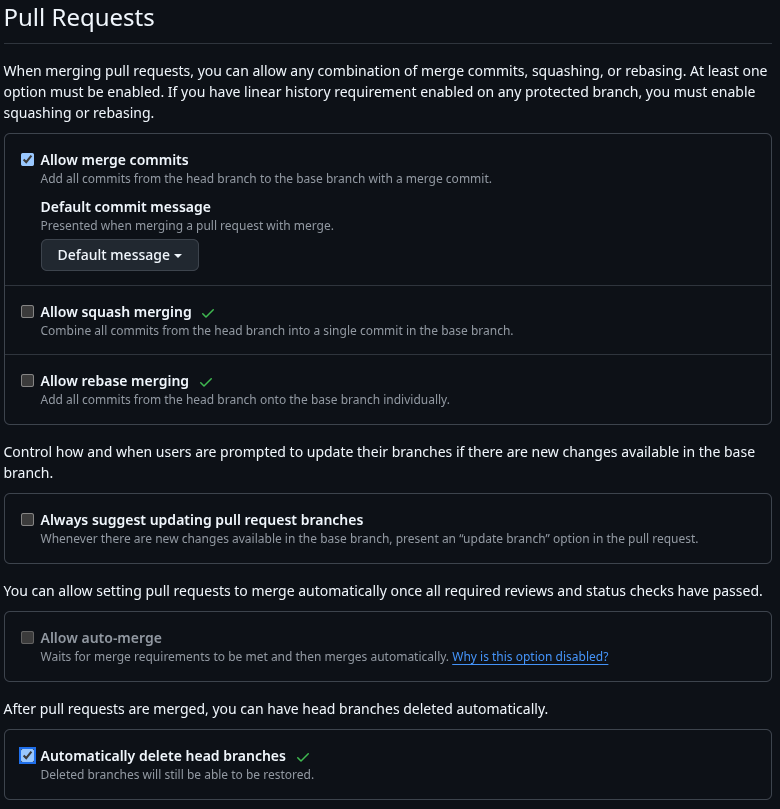
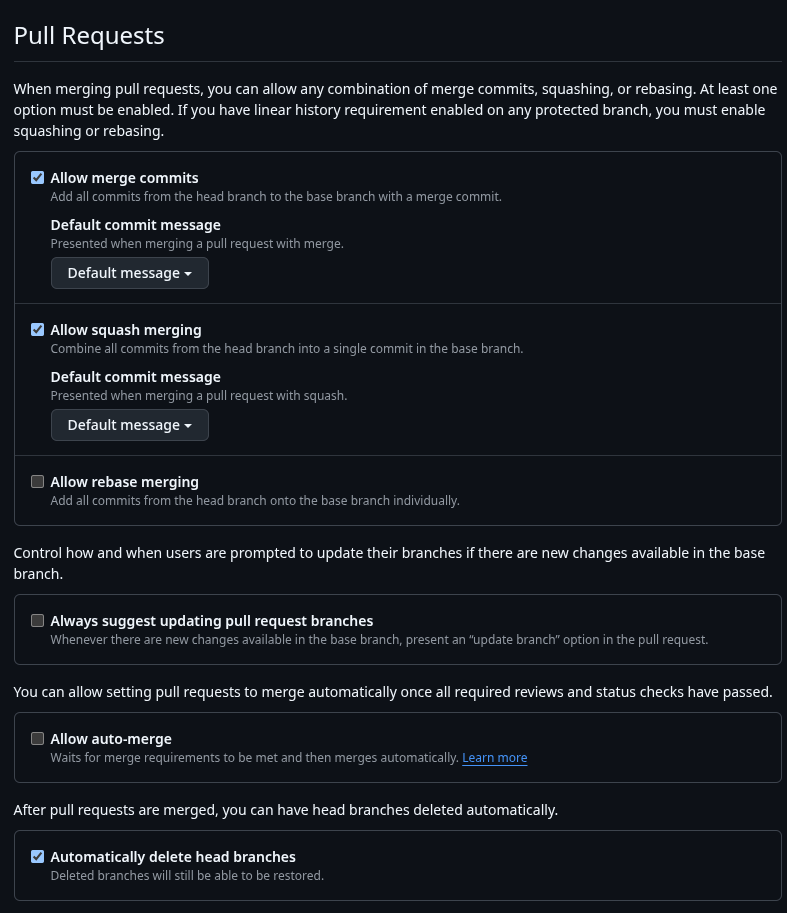
Removing development branch from workflows.

diff --git a/workflows/github-workflow.md b/workflows/github-workflow.md
@@ -1,17 +1,16 @@
-# Git Workflow: Geschützte Branches, `release-please` & Saubere Historie
+# Git Workflow: Geschützter `main` Branch, temporäre Feature & Fix Branches, `release-please` & Saubere Historie
 
-Dieser Guide beschreibt einen sicheren und effektiven Git-Workflow für Projekte, die `main` und `development` als zentrale Branches nutzen, beide durch **Branch Protection Rules** (nur Pull Requests erlaubt) geschützt sind und `release-please` für die Versionsverwaltung und Changelog-Generierung verwendet wird.
+Dieser Guide beschreibt einen sicheren und effektiven Git-Workflow für Projekte, bei dem nicht direkt im `main` gearbeitet wird, sondern Änderungen ins Repository über temporäre Feature & Fix Branches eingeführt werden. Um dies sicher zu stellen, wird der `main` durch **Branch Protection Rules** (u.a. nur Pull Requests erlaubt) geschützt. Zusätzlich wird `release-please` für die Versionsverwaltung und Changelog-Generierung verwendet. Dieser Workflow entspricht im Wesentlichen dem [GitHub-Flow](https://docs.github.com/de/get-started/using-github/github-flow) und dem [Git feature branch workflow](https://www.atlassian.com/git/tutorials/comparing-workflows/feature-branch-workflow). Für weiterführende Infos lese die verlinkten Guides.
 
 Dieser Guide eignet sich für Projekte, die mit [`setup_leptos_project.sh`](../scripts/setup_leptos_project.sh) erstellt in mit [`github-project-repo.md`](../setup/github-project-repo.md) in `GitHub` eingerichtet wurden.
 
 ## Kernprinzipien
 
 - **`main` ist der Hauptzweig:** Er dient mit `release-please` gleichzeitig als Release Branch.
-- **`development` ist der Start Branch für Entwicklung:** Alle temporären Branches für Features und Fixes werden von `development` abgeleitet.
 - **Temporäre Branches:** Alle Änderungen am Repository (neue Dateien, Dateien anpassen oder entfernen) durch Entwickler erfolgt über temporäre Branches, die zu löschen sind, wenn sie nicht mehr gebraucht werden.
-- **Keine Squash-Merges von `development` nach `main`:** Dies ist entscheidend, um doppelte Einträge in Changelogs bei der Synchronisation zu vermeiden. Wir verwenden stattdessen **normale Merge-Commits**.
-- **Feature-Branches aufräumen:** Die "Sauberkeit" der Commit-Historie wird auf den **Feature-Branches** selbst sichergestellt, bevor sie gemergt werden.
-- **Pull Request-zentrierter Ansatz:** Alle Änderungen an den geschützten Branches (`main` und `development`) müssen über Pull Requests erfolgen.
+- **Feature-Branches aufräumen:** Die "Sauberkeit" der Commit-Historie wird auf den **Feature-Branches** selbst sichergestellt, bevor sie gemergt werden. Sie können nach `main` mit einem [`merge` Commit](https://docs.github.com/de/pull-requests/collaborating-with-pull-requests/incorporating-changes-from-a-pull-request/about-pull-request-merges#merge-your-commits) übertragen werden. Alternativ empfiehlt `release-please` die Verwendung von [`squashed` Commits(https://docs.github.com/de/pull-requests/collaborating-with-pull-requests/incorporating-changes-from-a-pull-request/about-pull-request-merges#squash-and-merge-your-commits)]. So lange vor dem Zusammenführen der Branches entweder durch "sauberes" Arbeiten oder durch nachträgliches Aufräumen mit `rebase` die "Sauberkeit" der Commit Historie sichergestellt wird, sind beide Ansätze in Ordnung.
+- **Temporäre Branches:** Feature und Fix Branches sind temporär und werden nach dem Durchführen des Pull Requests wieder gelöscht. Sie werden nie wieder verwendet.
+- **Pull Request-zentrierter Ansatz:** Alle Änderungen an `main` müssen über Pull Requests erfolgen. `main` wird explizit über ein entsprechendes **Branch Protection Ruleset** geschützt.
 - **Notwendige `GitHub` Workflows:** Alle notwendigen Workflows werden über [`setup_leptos_project.sh`](../scripts/setup_leptos_project.sh) bereit gestellt.
 
 ---
@@ -23,9 +22,9 @@ Dieser Guide eignet sich für Projekte, die mit [`setup_leptos_project.sh`](../s
 Starte die Entwicklung neuer Features oder Fixes auf einem dedizierten Feature-Branch.
 
 ```bash
-# Sicherstellen, dass der lokale development Branch aktuell ist
-git checkout development
-git pull origin development
+# Sicherstellen, dass der lokale main Branch aktuell ist
+git checkout main
+git pull origin main
 
 # Neuen Feature-Branch erstellen
 git checkout -b feature/mein-super-feature
@@ -37,84 +36,52 @@ Bevor du deinen Feature-Branch zur Code-Review einreichst, bereinige seine Histo
 
 ```bash
 # Interaktiven Rebase starten
-git rebase -i development
+git rebase -i main
 ```
 
 - **Im geöffneten Editor:** Nutze Befehle wie `reword` (Commit-Nachricht bearbeiten), `squash` (mit vorherigem Commit zusammenfassen) oder `fixup` (mit vorherigem Commit zusammenfassen, Nachricht verwerfen), um deine Commits zu organisieren und zu verbessern. Speichere und schließe die Datei, damit Git den Rebase durchführen kann.
 
-- **Pushe deinen bereinigten Branch:** Da du die Historie umgeschrieben hast, ist ein Force Push notwendig. Verwende immer `--force-with-lease`, um unbeabsichtigtes Überschreiben von Änderungen anderer zu vermeiden.
+- **Pushe deinen bereinigten Branch:** Da du die Historie umgeschrieben hast, ist ein Force Push nach Origin notwendig. Verwende immer `--force-with-lease`, um unbeabsichtigtes Überschreiben von Änderungen anderer zu vermeiden.
 
   ```bash
   git push origin feature/mein-super-feature --force-with-lease
   ```
 
-### 3\. Feature-Branch in `development` mergen (via Pull Request)
+Hier findest du [Informationen zu Git-Rebase](https://docs.github.com/de/get-started/using-git/about-git-rebase) auf GitHub.
 
-Erstelle einen Pull Request (PR) von deinem Feature-Branch nach `development`.
+### 4\. Feature-Branch in `main` mergen (Release-Vorbereitung via Pull Request)
 
-- **PR erstellen:** Öffne einen PR von `feature/mein-super-feature` nach `development`.
+Erstelle einen Pull Request (PR) von deinem Feature-Branch nach `main`.
+
+- **PR erstellen:** Öffne einen PR von `feature/mein-super-feature` nach `main`.
 - **Review & Checks:** Lasse den Code reviewen und stelle sicher, dass alle CI/CD-Checks erfolgreich sind.
-- **Mergen:** Der Merge dieses PRs nach `development` sollte als **normaler Merge** erfolgen (nicht als Squash-Merge oder Rebase-Merge). Dies bewahrt die Commit-Historie deines Feature-Branches in `development`.
+- **Mergen:** Der Merge dieses PRs nach `main` sollte als **normaler Merge** (Commits bleiben einzeln erhalten) oder als **Squash-Merge** (Commits werden zu einem Commit zusammen gefasst) erfolgen (nicht Rebase-Merge).
 
-### 4\. `development` in `main` mergen (Release-Vorbereitung via Pull Request)
+> 💡 **Hinweis:** Vergiss nicht, den temporären Feature Branch nach dem merge lokal und auf Origin zu löschen.
 
-Sobald `development` alle für das nächste Release benötigten Features gesammelt hat, wird es in `main` integriert.
+### 4\. `release-please` wird aktiv und aktualisiert `main`
 
-- **PR erstellen:** Erstelle einen Pull Request von `development` nach `main`.
-- **Review & Checks:** Führe Code-Reviews und CI/CD-Checks durch.
-- **Mergen:** Auch hier ist ein **normaler Merge** erforderlich. Dies ermöglicht es `release-please`, die einzelnen Feature-Commits auf `main` zu erkennen und das Changelog korrekt zu generieren.
+Nach dem Merge nach `main` wird `release-please` (typischerweise über GitHub Actions) ausgelöst.
 
-### 5\. `release-please` wird aktiv und aktualisiert `main`
-
-Nach dem Merge von `development` nach `main` wird `release-please` (typischerweise über GitHub Actions) ausgelöst.
-
-- `release-please` analysiert die neuen Commits auf `main` (die ursprünglichen Feature-Commits von `development`).
+- `release-please` analysiert die neuen Commits auf `main` (die ursprünglichen Feature-Commits aus dem temporären Branch).
 - Es erstellt automatisch einen **neuen Pull Request** (z.B. "Release v1.2.3") auf `main`. Dieser PR enthält:
   - Den Version Bump in der Versionsdatei (z.B. `Cargo.toml`).
   - Das generierte Changelog.
   - Ggf. weitere Release-Artefakte.
 
-### 6\. `release-please`-PR nach `main` mergen
+### 5\. `release-please`-PR nach `main` mergen
 
 Überprüfe den von `release-please` erstellten PR. In den meisten Fällen kann dieser PR direkt gemergt werden.
 
 - **Mergen:** Führe einen **normalen Merge** für diesen `release-please`-PR nach `main` durch.
 - `main` enthält nun die aktualisierte Version und das Changelog. Ein entsprechendes Release-Tag wird gesetzt.
 
-### 7\. `main` in `development` zurücksynchronisieren (via Pull Request)
+### 6\. Publishing über Docker Image
 
-> 💡 **Hinweis:** Der `GitHub` Workflow [`sync_development_with_main.yml`](../github/workflows/sync_development_with_main.yml) führt die folgendes Schritte automatisch aus, sobald `release-please` nach dem merge des `Release PR` den `main` Branch mit einem Version tag markiert. Wenn beim merge Konflikte auftauchen, bricht der Workflow mit einer entsprechenden Fehlermeldung ab. Andernfalls endet er mit der Erstellung des Pull Request auf `development`.
+Wenn deine App über ein Docker Image veröffentlicht werden soll, dann ist jetzt der Bau und die Veröffentlichung des Docker Images anzustoßen (typischerweise über GitHub Actions). Der Workflow [`publish.yml`](../github/workflows/publish.yml) reagiert aus das gesetzte Release-Tag und führt die folgenden Schritte aus:
 
-Dies ist der letzte, aber entscheidende Schritt, um den `development`-Branch mit den durch `release-please` auf `main` eingeführten Versionsänderungen und dem Changelog zu aktualisieren.
-
-- **Temporären Sync-Branch erstellen:**
-
-  ```bash
-  git checkout development
-  git pull origin development # development auf den neuesten Stand bringen
-  git checkout -b sync/main-to-development
-  ```
-
-- **`main` in den Sync-Branch mergen:**
-
-  ```bash
-  git merge main
-  ```
-
-  - **Konfliktlösung (falls nötig):** Sollten hierbei Konflikte auftreten (was selten sein sollte, da nur `release-please` `main` direkt ändert), löse diese wie gewohnt.
-
-    ```bash
-    git add .        # Gelöste Konflikte zum Staging-Bereich hinzufügen
-    git commit       # Merge-Commit abschließen
-    ```
-
-- **Sync-Branch pushen:**
-
-  ```bash
-  git push origin sync/main-to-development
-  ```
-
-- **Pull Request erstellen:** Erstelle einen Pull Request von `sync/main-to-development` nach `development`.
-- **Mergen:** Merge diesen PR nach `development` (wieder ein **normaler Merge**).
+- **Dockerfile** nutzen, um ein Docker Image zu erstellen.
+- Taggen des Docker Image mit der Version und dem `latest` Tag.
+- Veröffentlichen des Docker Image in der GitHub Docker Registry `ghcr.io`.
 
 ---

diff --git a/setup/github-project-repo.md b/setup/github-project-repo.md
@@ -8,10 +8,9 @@ Dieser Guide geht davon aus, dass du mit dem [Leptos Template](./leptos-template
 - [Optional: Lizenz vom Projekt in github anpassen](#optional-lizenz-vom-projekt-in-github-anpassen)
 - [Personal access token (PAT) erstellen](#-personal-access-token-pat-erstellen)
 - [Secret im Projekt Repository erstellen](#-secret-im-projekt-repository-erstellen)
-- [Workflow Berechtigungen für `Sync development with main` und `release-please` anpassen](#workflow-berechtigungen-für--sync-development-with-main-und-release-please-anpassen)
+- [Workflow Berechtigungen für `release-please` anpassen](#workflow-berechtigungen-für-release-please-anpassen)
 - [Bootstrap release-please](#-bootstrap-release-please)
-- [Branch development von main erstellen](#branch-development-von-main-erstellen)
-- [Branch Protection für main und development erstellen](#branch-protection-für-main-und-development-erstellen)
+- [Branch Protection für main erstellen](#branch-protection-für-main-erstellen)
 - [Projekt in Visual Studio Code öffnen](#projekt-in-visual-studio-code-öffnen)
 
 ## Lokales Repository mit github desktop erstellen
@@ -40,7 +39,7 @@ Du findest diese Einstellungen unter
 
 und dann etwas nach unten scrollen. Setze die Einstellungen wie im Screenshot.
 
-> 💡 **Hinweis:** Der [GitHub Workflow](../workflows/github-workflow.md) sieht nur _normale_ `merge commits` vor. `squash merging` ist zu vermeiden, da es zu **Duplikat Commits** beim resync von `development` führt. `rebase merging` ist im Workflow ebenfalls nicht vorgesehen.
+> 💡 **Hinweis:** Die Option **Automatically delete head branches** löscht auf Origin automatisch temporäre Feature und Fix Branches, wenn ein Pull Request nach `main` durchgeführt wurde. Der lokale temporäre Branch muss aber weiterhin von Hand gelöscht werden.
 
 ![Pull Request Settings](./images/pull_request_settings.png)
 
@@ -62,9 +61,9 @@ Damit der PAT in den Workflows genutzt werden kann, muss er als secret `RELEASE_
 
 Auf jeden Fall den Namen `RELEASE_PLEASE_PAT` verwenden.
 
-## Workflow Berechtigungen für `🔁 Sync development with main` und `release-please` anpassen
+## Workflow Berechtigungen für `release-please` anpassen
 
-Im [`github workflow`](../workflows/github-workflow.md) wird erläutert, dass nach einem erfolgreichen `pull request` von `development` nach `main` die daraus resultierenden Änderungen in `main` wieder auf `development` zurück gespielt werden müssen. Dies ist aufgrund der Funktionsweise von git und aufgrund von **branch protection rules** (s.u.) etwas komplizierter, weswegen hierfür der workflow [`sync_development_with_main.yml`](../github/workflows/sync_development_with_main.yml) erstellt wurde. Dieser workflow wie auch der `release-please` workflow nehmen schreibende Aktionen im repository vor und erzeugen einen `pull request`. Die hierfür notwendigen Workflow Permissions sind unter
+Der [`release-please` Workflow](../github/workflows/_release_please.yml) wie auch der [Bootstrap `release-please` Workflow](../github/workflows/bootstrap_release_please.yml) (siehe nächstes Kapitel) nehmen schreibende Aktionen im Repository vor und erzeugen jeweils einen `pull request`. Die hierfür notwendigen Workflow Permissions sind unter
 
 `GitHub Repo > settings > Actions > General`
 
@@ -118,56 +117,31 @@ const CACHE_NAME = "your_app_name-v0.0.0"; // x-release-please-version
 
 Weitere Infos dazu siehe die entsprechende [`release-please`-Doku](https://github.com/googleapis/release-please/blob/d5f2ca8a2cf32701f1d87a85bbc37493b1db65c2/docs/customizing.md).
 
-## Branch `development` von `main` erstellen
-
-> 💡 **Hinweis:** stelle sicher, dass du bereits **🚀 Bootstrap release-please**durchgeführt hast.
-
-Erstelle in `github` den branch `development`, abgeleitet von `main`.
-
-## Branch Protection für `main` und `development` erstellen
+## Branch Protection für `main` erstellen
 
 > 💡 **Hinweis:** Branch Protection Rules sind in `github` nur bei öffentlichen Repos wirksam.
 
-Sowohl `main` als auch `development` sollen nur über `pull request`s bearbeitet werden. Hierfür sind die folgenden Regeln in `github` je Branch unter
+`main` soll nur über `pull request`s bearbeitet werden. Hierfür sind in `github` unter
 
 `GitHub Repo > ⚙ Settings > Branches > “Add branch ruleset”`
 
-zu erstellen.
-
-> ⚠ **Wichtig:** Es muss je branch ein eigenes ruleset erstellt werden, weil bei der Option **Require status checks to pass before merging** (s.u.) branch spezifische Workflows anzugeben sind.
-
-### Branch ruleset für 'main'
-
-Im oberen Bereich Namen angeben, `Enforcement status` setzen und Branch Namen eingeben (ohne `""`), für die das ruleset gelten soll. Übernehme die angegeben Einstellungen.
+Regel wie folgt zu erstellen.
 
 ![Branch ruleset oberer Bereich main](./images/branch_ruleset_main_01.png)
 
+Im oberen Bereich Namen angeben, `Enforcement status` setzen und bei Target Branch `main` eingeben (ohne `""`).
+
 ![Branch ruleset mittlerer Bereich main](./images/branch_ruleset_main_02.png)
+
+Achte bei `Allowed merge methods`, dass nur `Merge` und `Squash` ausgewählt sind.
 
 > 💡 **Hinweis:** Bei der Regel **Require a pull request before merging** kann über **Required approvals** die Anzahl der notwendigen Zustimmungen für einen `pull request` vorgegeben werden. Wenn man nicht alleine arbeitet, sollte dieser Wert **größer 0** sein.
 
 ![Branch ruleset unterer Bereich main](./images/branch_ruleset_main_03.png)
 
-Achte bei `Allowed merge methods`, dass nur `Squash` ausgewählt ist. Die Option `Require status checks to pass` kann erst verwendet werden, wenn durch einen commit CI Workflows ausgeführt wurden. Sobald dies erfolgt ist, empfiehlt es sich, diese hier bei `Add checks` hinzuzufügen. Diese sind aber erst nach erstmaligen Durchlauf verfügbar, so dass diese Option erst später gesetzt werden kann.
+Die Option `Require status checks to pass` kann erst verwendet werden, wenn durch einen commit CI Workflows ausgeführt wurden. Sobald dies erfolgt ist, empfiehlt es sich, diese hier bei `Add checks` hinzuzufügen. Diese sind aber erst nach erstmaligen Durchlauf verfügbar, so dass diese Option erst später gesetzt werden kann.
 
 > ⚠ **Warnung:** Vergiss nicht, diese checks nachträglich zu setzen, sobald sie einmal durchgelaufen sind.
-
-![Status Checks main](./images/status_checks_main.png)
-
-### Branch ruleset für `development`
-
-Die Regeln für `development` unterscheiden sich nur in zwei Punkten von `main`:
-
-1. Bei **Allowed merge methods** sind **Squash** und **Rebase** erlaubt.
-2. Bei den `required checks` entfällt der `Code Coverage` check.
-
-Denke daran, dass die gelisteten Checks erst **nach** einem erfolgreichen CI Durchlauf verfügbar sind.
-
-![Branch ruleset oberer Bereich development](./images/branch_ruleset_development_01.png)
-
-![Branch ruleset mittlerer Bereich development](./images/branch_ruleset_development_02.png)
-
-![Branch ruleset unterer Bereich development](./images/branch_ruleset_development_03.png)
 
 ## Projekt in Visual Studio Code öffnen
 
@@ -177,7 +151,7 @@ Entweder über `github desktop` oder in der Konsole im Projektordner
 code .
 ```
 
-ausführen. Dann über die integrierte Quellcodeverwaltung den branch `development` pullen.
+ausführen. Dann über die integrierte Quellcodeverwaltung den branch `main` pullen.
 
 ---
 

diff --git a/setup/leptos-template.md b/setup/leptos-template.md
@@ -146,7 +146,7 @@ Kopiere den Ordner `github` aus diesem Repo in deinen Projektordner und nenne de
 
 ### Funktionale workflows
 
-Alle funktionalen Workflows starten mit einem `_`. Sie bieten eine gewisse Funktionalität, die von anderen workflows genutzt werden kann. Sie stellen somit wiederverwendbare workflows dar, die in verschiedenen Phasen des Entwicklungsprozesses verwendet werden können. So können bei komplexen Features, die selber Sub-Branches benötigen, eigene workflows aus den funktionalen Workflows zusammen gesetzt werden. Als Vorlage hierfür können die workflows von `main` und `development` verwendet werden.
+Alle funktionalen Workflows starten mit einem `_`. Sie bieten eine gewisse Funktionalität, die von anderen workflows genutzt werden kann. Sie stellen somit wiederverwendbare workflows dar, die in verschiedenen Phasen des Entwicklungsprozesses verwendet werden können. So können bei komplexen Features, die selber Sub-Branches benötigen, eigene workflows aus den funktionalen Workflows zusammen gesetzt werden. Als Vorlage hierfür können die workflows von `main` verwendet werden.
 
 ### Branch workflows
 
